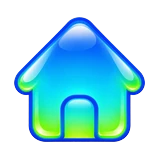
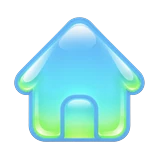
Aero Arcade: icone delle sezioni in versione pastello
Claude-Session: https://claude.ai/code/session_01PWjUFvUSSN5AZHNUEobqmU

diff --git a/aeroarcade/assets/index-D3amH7Tt.js b/aeroarcade/assets/index-D3amH7Tt.js
@@ -133,4 +133,4 @@ import{A as e,At as t,B as n,Bt as r,C as i,Ct as a,D as o,Dt as s,E as c,Et as 
     "username": "IL-TUO-USERNAME-METERED",
     "credential": "LA-TUA-CREDENZIALE-METERED"
   }
-]`;function J(e,t,n,...r){return A(`section`,{class:`glass set-section`,id:`set-${e}`,"aria-labelledby":`set-${e}-t`},A(`header`,{class:`set-intro`},A(`h2`,{id:`set-${e}-t`},t),A(`p`,null,n)),A(`div`,{class:`set-body`},...r))}function Y(e,t,n){return A(`div`,{class:`set-row`},A(`div`,{class:`set-row-label`},A(`strong`,null,e),n?A(`small`,null,n):null),A(`div`,{class:`set-row-control`},t))}function Pt(e,t,n,r){let i=A(`div`,{class:`seg`,role:`radiogroup`,"aria-label":e}),a=e=>i.replaceChildren(...t.map(([t,n])=>A(`button`,{type:`button`,role:`radio`,"aria-checked":String(t===e),"data-nav":!0,onclick:()=>{a(t),r(t)}},n)));return a(n),i}function Ft(e,t,n){let r=A(`input`,{type:`checkbox`,role:`switch`,checked:t,"data-nav":!0,"aria-label":e});return r.addEventListener(`change`,()=>n(r.checked)),A(`label`,{class:`switch`},r,A(`span`,{class:`switch-track`,"aria-hidden":`true`}))}async function It(e){let t=e=>{pe(e),M(`Salvato su questo browser.`,`ok`,1600)},n=ue(),r=A(`div`,{class:`set-list`});await(async()=>{await Ye(),r.replaceChildren(...U.profiles.map(e=>A(`div`,{class:`set-item`},A(`span`,{html:K(e.avatar,44)}),A(`strong`,{class:`grow`},e.nome),A(`button`,{class:`gel-btn small ghost`,"data-nav":!0,onclick:()=>Mt(e,()=>window.dispatchEvent(new Event(`aero:rerender`)))},`Modifica`))))})();let i=A(`input`,{type:`range`,min:0,max:1,step:.05,value:String(n.volume),"aria-label":`Volume`,"data-nav":!0}),a=A(`span`,{class:`range-value`},`${Math.round(n.volume*100)}%`);i.addEventListener(`input`,()=>a.textContent=`${Math.round(Number(i.value)*100)}%`),i.addEventListener(`change`,()=>t({volume:Number(i.value)}));let o=A(`p`,{class:`muted`,style:`margin:0`},`Calcolo…`),s=async()=>{let e=await O.list().catch(()=>[]),t=e.reduce((e,t)=>e+t.size,0),n=await E();o.textContent=`${e.length} ROM salvate in questo browser (${u(t)}).`,n&&(o.title=`Il sito occupa in tutto ${u(n.used)} in questo browser.`)};s();let c=A(`button`,{class:`gel-btn small ghost`,"data-nav":!0,onclick:async()=>{if(await re(`Libera spazio locale`,`Cancello le ROM salvate in questo browser. Restano tutte nel cloud e si riscaricano quando le avvii. I salvataggi non vengono toccati.`,`Libera spazio`))try{await w(),M(`Spazio locale liberato.`,`ok`),await s()}catch(e){F(e)}}},`Libera spazio locale`),l=A(`textarea`,{rows:10,spellcheck:!1,placeholder:Nt}),d=A(`button`,{class:`gel-btn small`,"data-nav":!0},`Salva server TURN`),p=A(`button`,{class:`gel-btn small ghost`,"data-nav":!0,onclick:()=>l.value=Nt},`Inserisci esempio Metered`),m=await T(`ice_servers`).catch(()=>null),g=!!(m&&m.length);g&&(l.value=JSON.stringify(m,null,2)),d.addEventListener(`click`,async()=>{try{let e=l.value.trim(),t=e?JSON.parse(e):[];if(!Array.isArray(t)||t.some(e=>!e||!e.urls))throw Error(`Formato non valido: serve una lista di oggetti con "urls".`);await h(`ice_servers`,t),M(t.length?`Server TURN salvati (visibili solo dopo il login).`:`Server TURN rimossi.`,`ok`)}catch(e){F(e instanceof SyntaxError?Error(`Il testo non è un JSON valido.`):e)}});let _=A(`div`,{class:`stack`},A(`p`,{class:`muted`,style:`margin:0`},`Serve solo se la connessione diretta non riesce (alcuni router o reti mobili): il sito te lo dice con un messaggio. Incolla la lista di server che ti dà Metered (piano gratuito, vedi GUIDA-SETUP.md punto 4). Viene salvata nel database e letta solo dopo il login.`),l,A(`div`,{class:`row`},p,d)),v=A(`button`,{class:`gel-btn small ghost`,"data-nav":!0,onclick:()=>j(`Server TURN`,_,{wide:!0})},g?`Server TURN: configurato`:`Server TURN (facoltativo)`),y=A(`div`,{class:`set-list`}),b=A(`input`,{type:`file`,accept:`.bin,.BIN`,class:`sr-only`,id:`bios-input`}),x=async()=>{try{let e=await de();y.replaceChildren(...e.length?e.map(e=>A(`div`,{class:`set-item`},A(`strong`,{class:`grow`},e.name),A(`span`,{class:`muted`},u(e.size)),A(`button`,{class:`gel-btn small ghost`,onclick:async()=>{await De(`bios`,[`psx/${e.name}`]).catch(F),x()}},`Elimina`))):[A(`p`,{class:`muted`,style:`margin:0`},`Nessun BIOS caricato: si usa quello interno dell'emulatore.`)])}catch(e){y.replaceChildren(A(`p`,{class:`muted`},`Impossibile leggere i BIOS.`)),console.warn(e)}};b.addEventListener(`change`,async()=>{let e=b.files?.[0];if(e){e.size!==524288&&M(`Attenzione: un BIOS PS1 di solito pesa esattamente 512 KB.`,`errore`);try{await se(`bios`,`psx/${Se(e.name.toLowerCase())}`,e),M(`BIOS caricato nello storage privato.`,`ok`),window.dispatchEvent(new Event(`aero:usage`)),x()}catch(e){F(e)}b.value=``}}),x();let S=A(`input`,{type:`password`,autocomplete:`new-password`,placeholder:`Nuova password`,"aria-label":`Nuova password`}),C=A(`input`,{type:`password`,autocomplete:`new-password`,placeholder:`Ripetila`,"aria-label":`Ripeti la nuova password`}),D=A(`button`,{class:`gel-btn small danger`,"data-nav":!0},`Cambia password`);D.addEventListener(`click`,async()=>{if(S.value.length<8)return M(`La password deve avere almeno 8 caratteri.`,`errore`);if(S.value!==C.value)return M(`Le due password non coincidono.`,`errore`);if(!await re(`Cambia password`,`La nuova password vale per entrambi i giocatori: ricordati di comunicarla al tuo amico.`,`Cambia`))return;let{error:e}=await R.auth.updateUser({password:S.value});if(e)return F(e);S.value=C.value=``,M(`Password universale cambiata.`,`ok`)}),e.classList.add(`page-settings`),e.append(f(`Impostazioni`),A(`div`,{class:`set-grid`},A(`div`,{class:`set-col`},J(`giocatori`,`Giocatori`,`Libreria in comune; preferiti, tasti e salvataggi separati.`,r),J(`gioco`,`Gioco`,`Valori di partenza su questo browser; in partita li cambi dal menu (Esc).`,Y(`Suoni dell'interfaccia`,Ft(`Suoni dell'interfaccia`,n.sound,e=>t({sound:e}))),Y(`Volume`,A(`div`,{class:`row`,style:`flex-wrap:nowrap`},i,a)),Y(`Avanti veloce (Spazio)`,Pt(`Velocità avanti veloce`,[[2,`2×`],[4,`4×`]],n.ffSpeed,e=>t({ffSpeed:e}))),Y(`Filtro video`,Pt(`Filtro video`,[[`nitido`,`Nitido`],[`morbido`,`Morbido`],[`crt`,`Tubo catodico`]],n.filter,e=>t({filter:e}))),Y(`Schermi del DS`,Pt(`Schermi del DS`,[[`verticale`,`Uno sopra l'altro`],[`affiancati`,`Affiancati`],[`grande`,`Uno grande`]],n.dsLayout,e=>t({dsLayout:e}))))),A(`div`,{class:`set-col`},J(`spazio`,`Spazio`,`1 GB gratuito nel cloud; le ROM giocate restano anche in questo browser.`,await wt(!0),A(`div`,{class:`row between`,style:`flex-wrap:nowrap;gap:12px`},o,c)),J(`multiplayer`,`Multiplayer online`,`Chi ospita apre la stanza dalla scheda del gioco, l'altro entra dalla Lobby.`,A(`div`,{class:`row between`,style:`gap:10px`},A(`span`,{class:`status-ok`},`Pronto all'uso`),v)),J(`bios`,`BIOS PlayStation`,`Facoltativo: migliora la compatibilità di alcuni giochi PS1.`,A(`div`,{class:`row between`,style:`gap:10px;flex-wrap:nowrap`},y,A(`label`,{class:`gel-btn small ghost`,for:`bios-input`,tabindex:0,"data-nav":!0,style:`flex:none`},b,`Carica BIOS`))),J(`password`,`Password universale`,`Uguale per tutti e due: cambiandola vale subito per entrambi.`,A(`div`,{class:`set-pw`},S,C,D)))))}var Lt={home:{view:vt,dock:`home`},libreria:{view:e=>Tt(e),dock:`libreria`},aggiungi:{view:e=>Tt(e,!0),dock:`libreria`},gioco:{view:pt,dock:`libreria`},lobby:{view:kt,dock:`lobby`},tasti:{view:yt,dock:`tasti`},impostazioni:{view:It,dock:`impostazioni`},profili:{view:jt,bare:!0},login:{view:At,bare:!0}},X=document.getElementById(`app`),Rt;function zt(){let[e]=Bt();e!==`home`&&e!==`login`&&e!==`profili`&&(history.length>1?history.back():H(`home`))}function Bt(){let e=location.hash.replace(/^#\/?/,``);return e?e.split(`/`).map(decodeURIComponent):[]}function Vt(e){document.documentElement.dataset.night=e?`1`:`0`}function Ht(){let e=A(`button`,{class:`night-toggle`,type:`button`,role:`switch`,"aria-checked":String(ue().night),"aria-label":`Modalità notte`,title:`Giorno / notte`,"data-nav":!0},A(`span`,{class:`nt-stars`,"aria-hidden":`true`}),A(`span`,{class:`nt-knob`,"aria-hidden":`true`},A(`span`,{class:`nt-sun`}),A(`span`,{class:`nt-moon`})));return e.addEventListener(`click`,()=>{let t=!ue().night;pe({night:t}),e.setAttribute(`aria-checked`,String(t)),Vt(t)}),e}var Z=null;function Ut(e,t){for(let n of e.querySelectorAll(`.dock a`)){let e=n.getAttribute(`href`)===`#/${t}`;n.classList.toggle(`active`,e),e?n.setAttribute(`aria-current`,`page`):n.removeAttribute(`aria-current`)}}function Wt(e){let t=W(),n=A(`main`,{class:`page`,id:`page`});return A(`div`,{class:`app`},A(`div`,{class:`top-row`},A(`a`,{class:`logo logo-box glass`,href:`#/home`,"aria-label":`Aero Arcade, torna alla home`},A(`span`,{class:`logo-orb`,html:Le()}),A(`span`,{class:`logo-text`},A(`span`,{class:`lt-a`},`Aero`),` `,A(`b`,null,`Arcade`))),A(`header`,{class:`topbar glass`},Ht(),t?A(`a`,{class:`profile-chip`,href:`#/profili`,title:`Cambia giocatore`,html:`${K(t.avatar,34)}<span>${t.nome.replace(/</g,`&lt;`)}</span>`}):null,A(`button`,{class:`gel-btn small ghost`,dataset:{sound:`back`},onclick:async()=>{await We(),H(`login`)}},P(V.exit),`Esci`))),n,A(`nav`,{class:`dock glass`,"aria-label":`Menu principale`},[[`home`,`Home`],[`libreria`,`Libreria`],[`lobby`,`Lobby`],[`tasti`,`Tasti`],[`impostazioni`,`Impostazioni`]].map(([t,n])=>A(`a`,{href:`#/${t}`,class:t===e?`active`:``,"aria-current":t===e?`page`:null},A(`img`,{class:`dock-icon`,src:`./icone/${t}.webp`,alt:``,width:34,height:34,draggable:`false`}),n))))}var Q=0,Gt=[`home`,`libreria`,`lobby`,`tasti`,`impostazioni`],$=-1;async function Kt(){let e=++Q;typeof Rt==`function`&&Rt(),Rt=void 0;let[t,...r]=Bt(),i=t;if(!x()){n(X).appendChild(A(`div`,{class:`center-screen`},A(`div`,{class:`glass panel login-card`},A(`h1`,null,`Configurazione mancante`),A(`p`,null,`Mancano indirizzo e chiave pubblica di Supabase nel file aero-config.js (cartella aeroarcade del sito). Compilali con il Blocco note e pubblica con GitHub Desktop: i passaggi sono in GUIDA-SETUP.md, punto 2.`))));return}let o=await Ge();if(e!==Q)return;if(o?i===`login`?i=l()?`home`:`profili`:i||=l()?`home`:`profili`:i=`login`,o){try{await Ye()}catch(e){F(e)}i!==`profili`&&!W()&&(i=`profili`)}if(e!==Q)return;let s=Lt[i]??Lt.home;if(s.bare?a():ne(l()),s.bare)Z=null;else{let e=W(),t=`${e?.id}|${e?.nome}|${e?.avatar}`;if(!Z||Z.key!==t||!X.contains(Z.el)){let e=Wt(s.dock);Z={el:e,page:e.querySelector(`#page`),key:t},n(X).appendChild(e)}}let c=s.bare?A(`div`,{id:`page`}):A(`main`,{class:`page`,id:`page`});try{let t=await s.view(c,r);if(e!==Q){typeof t==`function`&&t();return}Rt=t}catch(t){e===Q&&F(t)}if(e!==Q)return;let u=Gt.indexOf(s.dock??``),d=u>=0&&$>=0&&u!==$?u>$?1:-1:0;u>=0&&($=u);let f=matchMedia(`(prefers-reduced-motion: reduce)`).matches;if(s.bare)n(X).appendChild(c);else if(Z){Ut(Z.el,s.dock);let e=Z.page;if(c.style.setProperty(`--dir`,String(d)),!f&&e.isConnected){let t=e.offsetTop-window.scrollY;e.removeAttribute(`id`),e.style.cssText=`position:absolute;top:${t}px;left:${e.offsetLeft}px;width:${e.offsetWidth}px;--dir:${d}`,e.classList.remove(`page-in`),e.classList.add(`page-out`),e.inert=!0,e.addEventListener(`animationend`,()=>e.remove(),{once:!0}),setTimeout(()=>e.remove(),600),e.before(c)}else e.replaceWith(c);Z.page=c,window.scrollTo({top:0}),f||c.classList.add(`page-in`)}X.dataset.ready=location.hash,(c.querySelector(`[autofocus]`)??c.querySelector(`[data-nav]`))?.focus({preventScroll:!0})}Vt(ue().night),ot(),Ce(),S(zt),ct(),Ke(()=>{Bt()[0]!==`login`&&(M(`Sessione terminata: rientra con la password universale.`,`errore`),H(`login`))}),window.addEventListener(`hashchange`,()=>void Kt()),document.addEventListener(`pointerdown`,e=>{if(e.button!==0||e.ctrlKey||e.metaKey||e.shiftKey||e.altKey)return;let t=e.target.closest(`.dock a, .topbar a, .logo-box`),n=t?.getAttribute(`href`);if(!n?.startsWith(`#/`))return;let r=Gt.indexOf(n.slice(2));r>=0&&t?.closest(`.dock`)&&z.section(r),location.hash!==n&&(location.hash=n)}),window.addEventListener(`aero:rerender`,()=>void Kt()),Kt();
+]`;function J(e,t,n,...r){return A(`section`,{class:`glass set-section`,id:`set-${e}`,"aria-labelledby":`set-${e}-t`},A(`header`,{class:`set-intro`},A(`h2`,{id:`set-${e}-t`},t),A(`p`,null,n)),A(`div`,{class:`set-body`},...r))}function Y(e,t,n){return A(`div`,{class:`set-row`},A(`div`,{class:`set-row-label`},A(`strong`,null,e),n?A(`small`,null,n):null),A(`div`,{class:`set-row-control`},t))}function Pt(e,t,n,r){let i=A(`div`,{class:`seg`,role:`radiogroup`,"aria-label":e}),a=e=>i.replaceChildren(...t.map(([t,n])=>A(`button`,{type:`button`,role:`radio`,"aria-checked":String(t===e),"data-nav":!0,onclick:()=>{a(t),r(t)}},n)));return a(n),i}function Ft(e,t,n){let r=A(`input`,{type:`checkbox`,role:`switch`,checked:t,"data-nav":!0,"aria-label":e});return r.addEventListener(`change`,()=>n(r.checked)),A(`label`,{class:`switch`},r,A(`span`,{class:`switch-track`,"aria-hidden":`true`}))}async function It(e){let t=e=>{pe(e),M(`Salvato su questo browser.`,`ok`,1600)},n=ue(),r=A(`div`,{class:`set-list`});await(async()=>{await Ye(),r.replaceChildren(...U.profiles.map(e=>A(`div`,{class:`set-item`},A(`span`,{html:K(e.avatar,44)}),A(`strong`,{class:`grow`},e.nome),A(`button`,{class:`gel-btn small ghost`,"data-nav":!0,onclick:()=>Mt(e,()=>window.dispatchEvent(new Event(`aero:rerender`)))},`Modifica`))))})();let i=A(`input`,{type:`range`,min:0,max:1,step:.05,value:String(n.volume),"aria-label":`Volume`,"data-nav":!0}),a=A(`span`,{class:`range-value`},`${Math.round(n.volume*100)}%`);i.addEventListener(`input`,()=>a.textContent=`${Math.round(Number(i.value)*100)}%`),i.addEventListener(`change`,()=>t({volume:Number(i.value)}));let o=A(`p`,{class:`muted`,style:`margin:0`},`Calcolo…`),s=async()=>{let e=await O.list().catch(()=>[]),t=e.reduce((e,t)=>e+t.size,0),n=await E();o.textContent=`${e.length} ROM salvate in questo browser (${u(t)}).`,n&&(o.title=`Il sito occupa in tutto ${u(n.used)} in questo browser.`)};s();let c=A(`button`,{class:`gel-btn small ghost`,"data-nav":!0,onclick:async()=>{if(await re(`Libera spazio locale`,`Cancello le ROM salvate in questo browser. Restano tutte nel cloud e si riscaricano quando le avvii. I salvataggi non vengono toccati.`,`Libera spazio`))try{await w(),M(`Spazio locale liberato.`,`ok`),await s()}catch(e){F(e)}}},`Libera spazio locale`),l=A(`textarea`,{rows:10,spellcheck:!1,placeholder:Nt}),d=A(`button`,{class:`gel-btn small`,"data-nav":!0},`Salva server TURN`),p=A(`button`,{class:`gel-btn small ghost`,"data-nav":!0,onclick:()=>l.value=Nt},`Inserisci esempio Metered`),m=await T(`ice_servers`).catch(()=>null),g=!!(m&&m.length);g&&(l.value=JSON.stringify(m,null,2)),d.addEventListener(`click`,async()=>{try{let e=l.value.trim(),t=e?JSON.parse(e):[];if(!Array.isArray(t)||t.some(e=>!e||!e.urls))throw Error(`Formato non valido: serve una lista di oggetti con "urls".`);await h(`ice_servers`,t),M(t.length?`Server TURN salvati (visibili solo dopo il login).`:`Server TURN rimossi.`,`ok`)}catch(e){F(e instanceof SyntaxError?Error(`Il testo non è un JSON valido.`):e)}});let _=A(`div`,{class:`stack`},A(`p`,{class:`muted`,style:`margin:0`},`Serve solo se la connessione diretta non riesce (alcuni router o reti mobili): il sito te lo dice con un messaggio. Incolla la lista di server che ti dà Metered (piano gratuito, vedi GUIDA-SETUP.md punto 4). Viene salvata nel database e letta solo dopo il login.`),l,A(`div`,{class:`row`},p,d)),v=A(`button`,{class:`gel-btn small ghost`,"data-nav":!0,onclick:()=>j(`Server TURN`,_,{wide:!0})},g?`Server TURN: configurato`:`Server TURN (facoltativo)`),y=A(`div`,{class:`set-list`}),b=A(`input`,{type:`file`,accept:`.bin,.BIN`,class:`sr-only`,id:`bios-input`}),x=async()=>{try{let e=await de();y.replaceChildren(...e.length?e.map(e=>A(`div`,{class:`set-item`},A(`strong`,{class:`grow`},e.name),A(`span`,{class:`muted`},u(e.size)),A(`button`,{class:`gel-btn small ghost`,onclick:async()=>{await De(`bios`,[`psx/${e.name}`]).catch(F),x()}},`Elimina`))):[A(`p`,{class:`muted`,style:`margin:0`},`Nessun BIOS caricato: si usa quello interno dell'emulatore.`)])}catch(e){y.replaceChildren(A(`p`,{class:`muted`},`Impossibile leggere i BIOS.`)),console.warn(e)}};b.addEventListener(`change`,async()=>{let e=b.files?.[0];if(e){e.size!==524288&&M(`Attenzione: un BIOS PS1 di solito pesa esattamente 512 KB.`,`errore`);try{await se(`bios`,`psx/${Se(e.name.toLowerCase())}`,e),M(`BIOS caricato nello storage privato.`,`ok`),window.dispatchEvent(new Event(`aero:usage`)),x()}catch(e){F(e)}b.value=``}}),x();let S=A(`input`,{type:`password`,autocomplete:`new-password`,placeholder:`Nuova password`,"aria-label":`Nuova password`}),C=A(`input`,{type:`password`,autocomplete:`new-password`,placeholder:`Ripetila`,"aria-label":`Ripeti la nuova password`}),D=A(`button`,{class:`gel-btn small danger`,"data-nav":!0},`Cambia password`);D.addEventListener(`click`,async()=>{if(S.value.length<8)return M(`La password deve avere almeno 8 caratteri.`,`errore`);if(S.value!==C.value)return M(`Le due password non coincidono.`,`errore`);if(!await re(`Cambia password`,`La nuova password vale per entrambi i giocatori: ricordati di comunicarla al tuo amico.`,`Cambia`))return;let{error:e}=await R.auth.updateUser({password:S.value});if(e)return F(e);S.value=C.value=``,M(`Password universale cambiata.`,`ok`)}),e.classList.add(`page-settings`),e.append(f(`Impostazioni`),A(`div`,{class:`set-grid`},A(`div`,{class:`set-col`},J(`giocatori`,`Giocatori`,`Libreria in comune; preferiti, tasti e salvataggi separati.`,r),J(`gioco`,`Gioco`,`Valori di partenza su questo browser; in partita li cambi dal menu (Esc).`,Y(`Suoni dell'interfaccia`,Ft(`Suoni dell'interfaccia`,n.sound,e=>t({sound:e}))),Y(`Volume`,A(`div`,{class:`row`,style:`flex-wrap:nowrap`},i,a)),Y(`Avanti veloce (Spazio)`,Pt(`Velocità avanti veloce`,[[2,`2×`],[4,`4×`]],n.ffSpeed,e=>t({ffSpeed:e}))),Y(`Filtro video`,Pt(`Filtro video`,[[`nitido`,`Nitido`],[`morbido`,`Morbido`],[`crt`,`Tubo catodico`]],n.filter,e=>t({filter:e}))),Y(`Schermi del DS`,Pt(`Schermi del DS`,[[`verticale`,`Uno sopra l'altro`],[`affiancati`,`Affiancati`],[`grande`,`Uno grande`]],n.dsLayout,e=>t({dsLayout:e}))))),A(`div`,{class:`set-col`},J(`spazio`,`Spazio`,`1 GB gratuito nel cloud; le ROM giocate restano anche in questo browser.`,await wt(!0),A(`div`,{class:`row between`,style:`flex-wrap:nowrap;gap:12px`},o,c)),J(`multiplayer`,`Multiplayer online`,`Chi ospita apre la stanza dalla scheda del gioco, l'altro entra dalla Lobby.`,A(`div`,{class:`row between`,style:`gap:10px`},A(`span`,{class:`status-ok`},`Pronto all'uso`),v)),J(`bios`,`BIOS PlayStation`,`Facoltativo: migliora la compatibilità di alcuni giochi PS1.`,A(`div`,{class:`row between`,style:`gap:10px;flex-wrap:nowrap`},y,A(`label`,{class:`gel-btn small ghost`,for:`bios-input`,tabindex:0,"data-nav":!0,style:`flex:none`},b,`Carica BIOS`))),J(`password`,`Password universale`,`Uguale per tutti e due: cambiandola vale subito per entrambi.`,A(`div`,{class:`set-pw`},S,C,D)))))}var Lt={home:{view:vt,dock:`home`},libreria:{view:e=>Tt(e),dock:`libreria`},aggiungi:{view:e=>Tt(e,!0),dock:`libreria`},gioco:{view:pt,dock:`libreria`},lobby:{view:kt,dock:`lobby`},tasti:{view:yt,dock:`tasti`},impostazioni:{view:It,dock:`impostazioni`},profili:{view:jt,bare:!0},login:{view:At,bare:!0}},X=document.getElementById(`app`),Rt;function zt(){let[e]=Bt();e!==`home`&&e!==`login`&&e!==`profili`&&(history.length>1?history.back():H(`home`))}function Bt(){let e=location.hash.replace(/^#\/?/,``);return e?e.split(`/`).map(decodeURIComponent):[]}function Vt(e){document.documentElement.dataset.night=e?`1`:`0`}function Ht(){let e=A(`button`,{class:`night-toggle`,type:`button`,role:`switch`,"aria-checked":String(ue().night),"aria-label":`Modalità notte`,title:`Giorno / notte`,"data-nav":!0},A(`span`,{class:`nt-stars`,"aria-hidden":`true`}),A(`span`,{class:`nt-knob`,"aria-hidden":`true`},A(`span`,{class:`nt-sun`}),A(`span`,{class:`nt-moon`})));return e.addEventListener(`click`,()=>{let t=!ue().night;pe({night:t}),e.setAttribute(`aria-checked`,String(t)),Vt(t)}),e}var Z=null;function Ut(e,t){for(let n of e.querySelectorAll(`.dock a`)){let e=n.getAttribute(`href`)===`#/${t}`;n.classList.toggle(`active`,e),e?n.setAttribute(`aria-current`,`page`):n.removeAttribute(`aria-current`)}}function Wt(e){let t=W(),n=A(`main`,{class:`page`,id:`page`});return A(`div`,{class:`app`},A(`div`,{class:`top-row`},A(`a`,{class:`logo logo-box glass`,href:`#/home`,"aria-label":`Aero Arcade, torna alla home`},A(`span`,{class:`logo-orb`,html:Le()}),A(`span`,{class:`logo-text`},A(`span`,{class:`lt-a`},`Aero`),` `,A(`b`,null,`Arcade`))),A(`header`,{class:`topbar glass`},Ht(),t?A(`a`,{class:`profile-chip`,href:`#/profili`,title:`Cambia giocatore`,html:`${K(t.avatar,34)}<span>${t.nome.replace(/</g,`&lt;`)}</span>`}):null,A(`button`,{class:`gel-btn small ghost`,dataset:{sound:`back`},onclick:async()=>{await We(),H(`login`)}},P(V.exit),`Esci`))),n,A(`nav`,{class:`dock glass`,"aria-label":`Menu principale`},[[`home`,`Home`],[`libreria`,`Libreria`],[`lobby`,`Lobby`],[`tasti`,`Tasti`],[`impostazioni`,`Impostazioni`]].map(([t,n])=>A(`a`,{href:`#/${t}`,class:t===e?`active`:``,"aria-current":t===e?`page`:null},A(`img`,{class:`dock-icon`,src:`./icone/${t}.webp?v=3`,alt:``,width:34,height:34,draggable:`false`}),n))))}var Q=0,Gt=[`home`,`libreria`,`lobby`,`tasti`,`impostazioni`],$=-1;async function Kt(){let e=++Q;typeof Rt==`function`&&Rt(),Rt=void 0;let[t,...r]=Bt(),i=t;if(!x()){n(X).appendChild(A(`div`,{class:`center-screen`},A(`div`,{class:`glass panel login-card`},A(`h1`,null,`Configurazione mancante`),A(`p`,null,`Mancano indirizzo e chiave pubblica di Supabase nel file aero-config.js (cartella aeroarcade del sito). Compilali con il Blocco note e pubblica con GitHub Desktop: i passaggi sono in GUIDA-SETUP.md, punto 2.`))));return}let o=await Ge();if(e!==Q)return;if(o?i===`login`?i=l()?`home`:`profili`:i||=l()?`home`:`profili`:i=`login`,o){try{await Ye()}catch(e){F(e)}i!==`profili`&&!W()&&(i=`profili`)}if(e!==Q)return;let s=Lt[i]??Lt.home;if(s.bare?a():ne(l()),s.bare)Z=null;else{let e=W(),t=`${e?.id}|${e?.nome}|${e?.avatar}`;if(!Z||Z.key!==t||!X.contains(Z.el)){let e=Wt(s.dock);Z={el:e,page:e.querySelector(`#page`),key:t},n(X).appendChild(e)}}let c=s.bare?A(`div`,{id:`page`}):A(`main`,{class:`page`,id:`page`});try{let t=await s.view(c,r);if(e!==Q){typeof t==`function`&&t();return}Rt=t}catch(t){e===Q&&F(t)}if(e!==Q)return;let u=Gt.indexOf(s.dock??``),d=u>=0&&$>=0&&u!==$?u>$?1:-1:0;u>=0&&($=u);let f=matchMedia(`(prefers-reduced-motion: reduce)`).matches;if(s.bare)n(X).appendChild(c);else if(Z){Ut(Z.el,s.dock);let e=Z.page;if(c.style.setProperty(`--dir`,String(d)),!f&&e.isConnected){let t=e.offsetTop-window.scrollY;e.removeAttribute(`id`),e.style.cssText=`position:absolute;top:${t}px;left:${e.offsetLeft}px;width:${e.offsetWidth}px;--dir:${d}`,e.classList.remove(`page-in`),e.classList.add(`page-out`),e.inert=!0,e.addEventListener(`animationend`,()=>e.remove(),{once:!0}),setTimeout(()=>e.remove(),600),e.before(c)}else e.replaceWith(c);Z.page=c,window.scrollTo({top:0}),f||c.classList.add(`page-in`)}X.dataset.ready=location.hash,(c.querySelector(`[autofocus]`)??c.querySelector(`[data-nav]`))?.focus({preventScroll:!0})}Vt(ue().night),ot(),Ce(),S(zt),ct(),Ke(()=>{Bt()[0]!==`login`&&(M(`Sessione terminata: rientra con la password universale.`,`errore`),H(`login`))}),window.addEventListener(`hashchange`,()=>void Kt()),document.addEventListener(`pointerdown`,e=>{if(e.button!==0||e.ctrlKey||e.metaKey||e.shiftKey||e.altKey)return;let t=e.target.closest(`.dock a, .topbar a, .logo-box`),n=t?.getAttribute(`href`);if(!n?.startsWith(`#/`))return;let r=Gt.indexOf(n.slice(2));r>=0&&t?.closest(`.dock`)&&z.section(r),location.hash!==n&&(location.hash=n)}),window.addEventListener(`aero:rerender`,()=>void Kt()),Kt();

diff --git a/aeroarcade/index.html b/aeroarcade/index.html
@@ -12,7 +12,7 @@
          Caricata con un parametro sempre diverso, così le modifiche arrivano subito
          senza dover svuotare la cache del browser. -->
     <script>document.write('<script src="./aero-config.js?v=' + Date.now() + '"><\/script>');</script>
-    <script type="module" crossorigin src="./assets/index-ISprpZD5.js"></script>
+    <script type="module" crossorigin src="./assets/index-D3amH7Tt.js"></script>
     <link rel="modulepreload" crossorigin href="./assets/netplay-Dul_44JM.js">
     <link rel="stylesheet" crossorigin href="./assets/netplay-DuvNIWoR.css">
   </head>
